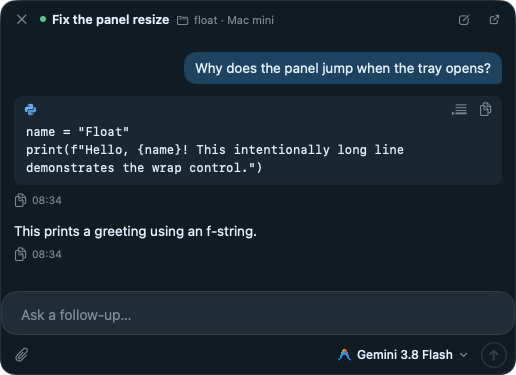
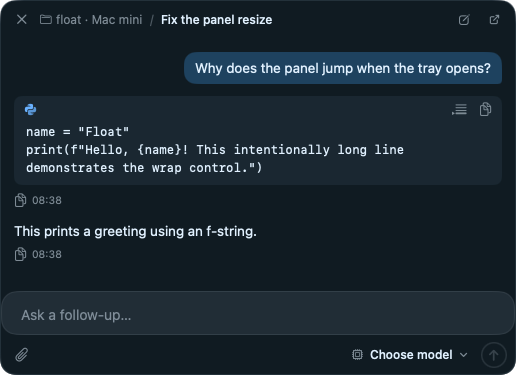
feat(header): show project crumbs and disconnect status

Changed region(s): [[0.062, 0.0293, 0.5271, 0.088], [0.6512, 0.9093, 0.8992, 0.968], [0.093, 0.528, 0.124, 0.5573]]

diff --git a/Sources/Float/HeaderProjectIcon.swift b/Sources/Float/HeaderProjectIcon.swift
@@ -1,0 +1,101 @@
+import AppKit
+import FloatCore
+import SwiftUI
+
+/// T3 uses an explicit override first, then looks for a favicon in the checkout.
+struct HeaderProjectIcon: View {
+    let project: T3Project?
+    let isLocal: Bool
+
+    @State private var image: NSImage?
+
+    var body: some View {
+        Group {
+            if let icon = project?.projectIcon, icon.kind == "emoji", let emoji = icon.emoji {
+                Text(emoji).font(.system(size: 10.5))
+            } else if let icon = project?.projectIcon, icon.kind == "monogram", let text = icon.text {
+                Text(text)
+                    .font(.system(size: 10.5, weight: .medium))
+                    .lineLimit(1)
+                    .minimumScaleFactor(0.6)
+            } else if let image {
+                Image(nsImage: image)
+                    .resizable()
+                    .scaledToFit()
+            } else {
+                Image(systemName: "folder").font(.system(size: 10.5))
+            }
+        }
+        .frame(width: 11, height: 11)
+        .accessibilityHidden(true)
+        .task(id: project) {
+            image = nil
+            guard isLocal, let project, project.projectIcon == nil else { return }
+            let data = await Task.detached { Self.faviconData(for: project) }.value
+            guard !Task.isCancelled else { return }
+            image = data.flatMap(NSImage.init(data:))
+        }
+    }
+
+    private nonisolated static func faviconData(for project: T3Project) -> Data? {
+        let root = URL(fileURLWithPath: project.workspaceRoot, isDirectory: true).resolvingSymlinksInPath()
+        func read(_ path: String, allowAbsolute: Bool = false) -> Data? {
+            let file: URL
+            if path.hasPrefix("/"), allowAbsolute {
+                file = URL(fileURLWithPath: path)
+            } else {
+                file = root.appending(path: path).resolvingSymlinksInPath().standardizedFileURL
+                guard file.path.hasPrefix(root.path + "/") else { return nil }
+            }
+            guard let values = try? file.resourceValues(forKeys: [.isRegularFileKey, .fileSizeKey]),
+                  values.isRegularFile == true, let size = values.fileSize,
+                  (1...2_000_000).contains(size) else { return nil }
+            return try? Data(contentsOf: file)
+        }
+
+        if let path = project.faviconPath, let data = read(path, allowAbsolute: true) { return data }
+        struct ProjectFile: Decodable { let iconPath: String? }
+        if let file = read("t3.json"),
+           let path = (try? JSONDecoder().decode(ProjectFile.self, from: file))?.iconPath,
+           let data = read(path) { return data }
+
+        // Keep this order aligned with T3's ProjectFaviconResolver.
+        let candidates = [
+            "favicon.svg", "favicon.ico", "favicon.png",
+            "public/favicon.svg", "public/favicon.ico", "public/favicon.png",
+            "app/favicon.ico", "app/favicon.png", "app/icon.svg", "app/icon.png", "app/icon.ico",
+            "src/favicon.ico", "src/favicon.svg", "src/app/favicon.ico", "src/app/icon.svg", "src/app/icon.png",
+            "assets/icon.svg", "assets/icon.png", "assets/logo.svg", "assets/logo.png",
+            ".idea/icon.svg", "Resources/AppIcon.icns", "AppIcon.icns",
+        ]
+        if let data = candidates.lazy.compactMap({ read($0) }).first { return data }
+
+        let sourcePaths = [
+            "index.html", "public/index.html", "app/routes/__root.tsx", "src/routes/__root.tsx",
+            "app/root.tsx", "src/root.tsx", "src/index.html",
+        ]
+        let link = #"<link\b(?=[^>]*\brel=["'](?:icon|shortcut icon)["'])(?=[^>]*\bhref=["']([^"'?]+))[^>]*>"#
+        let rel = #"\brel\s*:\s*["'](?:icon|shortcut icon)["']"#
+        let href = #"\bhref\s*:\s*["']([^"'?]+)"#
+        let linkPattern = try? NSRegularExpression(pattern: link, options: .caseInsensitive)
+        let hrefPattern = try? NSRegularExpression(pattern: href, options: .caseInsensitive)
+        for path in sourcePaths {
+            guard let data = read(path), let source = String(data: data, encoding: .utf8) else { continue }
+            let icon = capturedPath(in: source, with: linkPattern) ?? source.split(separator: "}").lazy
+                .filter { $0.range(of: rel, options: [.regularExpression, .caseInsensitive]) != nil }
+                .compactMap { capturedPath(in: String($0), with: hrefPattern) }.first
+            guard let icon else { continue }
+            let localPath = icon.trimmingCharacters(in: .whitespacesAndNewlines)
+            guard !localPath.contains(":"), !localPath.hasPrefix("//") else { continue }
+            let relative = localPath.hasPrefix("/") ? String(localPath.dropFirst()) : localPath
+            if let data = read("public/\(relative)") ?? read(relative) { return data }
+        }
+        return nil
+    }
+
+    private nonisolated static func capturedPath(in source: String, with pattern: NSRegularExpression?) -> String? {
+        guard let match = pattern?.firstMatch(in: source, range: NSRange(source.startIndex..., in: source)),
+              let captured = Range(match.range(at: 1), in: source) else { return nil }
+        return String(source[captured])
+    }
+}

diff --git a/Sources/Float/FloatView.swift b/Sources/Float/FloatView.swift
@@ -251,28 +251,33 @@ struct FloatView: View {
                 "Close (Esc)", accessibilityLabel: "Close",
                 systemImage: "xmark", size: Self.headerButtonSize, glyphSize: 12, action: dismiss
             )
-            Circle()
-                .fill(statusColor)
-                .frame(width: 6, height: 6)
-                .help(statusLabel)
-                .accessibilityLabel(statusLabel)
-            HStack(spacing: 0) {
-                HStack(alignment: .firstTextBaseline, spacing: 6) {
-                    Text(chat.title ?? "Float")
-                        .font(.system(size: 12.5, weight: .semibold))
-                        .foregroundStyle(Theme.text)
+            HStack(spacing: 7) {
+                if let offlineLabel {
+                    Circle()
+                        .fill(Theme.muted)
+                        .frame(width: 6, height: 6)
+                        .accessibilityHidden(true)
+                    headerTitle("Float")
+                    Text(offlineLabel)
+                        .font(.system(size: 11))
+                        .foregroundStyle(Theme.muted)
                         .lineLimit(1)
-                        .accessibilityAddTraits(.isHeader)
-                    HStack(spacing: 4) {
-                        if chat.hasThreadProject {
-                            Image(systemName: "folder")
-                                .font(.system(size: 10, weight: .medium))
+                } else {
+                    if let project = chat.threadProjectLabel {
+                        HStack(spacing: 5) {
+                            HeaderProjectIcon(project: chat.threadProject, isLocal: chat.reference?.environmentID == nil)
+                            Text(chat.threadMachineName.map { "\(project) · \($0)" } ?? project)
+                                .lineLimit(1)
                         }
-                        Text(chat.threadSubtitle)
-                            .font(.system(size: 11))
+                        .font(.system(size: 12))
+                        .foregroundStyle(Theme.muted)
+                        .frame(maxWidth: 210, alignment: .leading)
+                        .fixedSize(horizontal: true, vertical: false)
+                        Text("/")
+                            .font(.system(size: 12))
+                            .foregroundStyle(Theme.muted.opacity(0.55))
                     }
-                    .foregroundStyle(Theme.muted)
-                    .fixedSize()
+                    headerTitle(chat.title ?? "Float")
                 }
                 Spacer(minLength: 8)
             }
@@ -295,26 +300,23 @@ struct FloatView: View {
         }
         .padding(.horizontal, Self.headerButtonInset)
         .frame(height: Self.headerHeight)
+        .task(id: chat.threadProjectID) { await chat.loadThreadProject() }
     }
 
-    private var statusColor: Color {
-        if chat.needsT3 { return Theme.muted }
-        switch chat.status {
-        case .running: return Theme.accent
-        case .waiting: return Theme.warning
-        case .failed: return Theme.error
-        default: return chat.submitting ? Theme.accent : Theme.success
-        }
+    private func headerTitle(_ title: String) -> some View {
+        Text(title)
+            .font(.system(size: 12, weight: .medium))
+            .foregroundStyle(Theme.text)
+            .lineLimit(1)
+            .accessibilityAddTraits(.isHeader)
     }
 
-    private var statusLabel: String {
+    private var offlineLabel: String? {
         if chat.needsT3 { return "T3 not running" }
-        switch chat.status {
-        case .running: return "Thinking"
-        case .waiting: return "Needs input"
-        case .failed: return "Failed"
-        default: return chat.submitting ? "Thinking" : "Ready"
+        if chat.threadMachineDisconnected {
+            return "\(chat.threadMachineName ?? "Thread machine") is offline"
         }
+        return nil
     }
 
     private var openAction: NoticeAction? {

diff --git a/Sources/Float/ChatState.swift b/Sources/Float/ChatState.swift
@@ -73,6 +73,8 @@ final class ChatState: ObservableObject {
     @Published private(set) var projectCatalogFailed = false
     @Published private(set) var selectedProjectID: String?
     @Published private(set) var threadProjectID: String?
+    @Published private var loadedThreadProject: T3Project?
+    @Published private(set) var threadMachineDisconnected = false
     @Published private(set) var machines: [T3Machine] = []
     @Published private(set) var loadingMachines = false
     @Published private(set) var selectedMachineID: String?
@@ -198,20 +200,29 @@ final class ChatState: ObservableObject {
     var projectLabel: String { selectedProject?.title ?? "No project" }
 
     var threadProject: T3Project? {
-        projects.first { $0.id == threadProjectID }
+        if let loadedThreadProject, loadedThreadProject.id == threadProjectID {
+            return loadedThreadProject
+        }
+        guard reference?.environmentID == selectedMachineEnvironmentID else { return nil }
+        return projects.first { $0.id == threadProjectID }
     }
 
-    var hasThreadProject: Bool { threadProject != nil || reference?.projectName != nil }
-
-    var threadProjectLabel: String {
-        threadProject?.title ?? reference?.projectName ?? "No project"
+    var threadProjectLabel: String? {
+        let name = threadProject?.title ?? reference?.projectName
+        return name == "No project" ? nil : name
     }
 
-    var threadMachineName: String? { reference?.machineName }
+    var threadMachineName: String? {
+        guard let environmentID = reference?.environmentID else { return nil }
+        return machines.first { $0.id == environmentID }?.name ?? reference?.machineName
+    }
 
-    var threadSubtitle: String {
-        guard let threadMachineName else { return threadProjectLabel }
-        return "\(threadProjectLabel) · \(threadMachineName)"
+    func loadThreadProject() async {
+        guard let id = threadProjectID, let reference, loadedThreadProject?.id != id,
+              threadProject?.faviconPath == nil, threadProject?.projectIcon == nil,
+              let project = try? await client.project(id, environmentID: reference.environmentID),
+              reference == self.reference, id == threadProjectID, !Task.isCancelled else { return }
+        loadedThreadProject = project
     }
 
     var canChooseProject: Bool {
@@ -410,6 +421,8 @@ final class ChatState: ObservableObject {
         images = []
         reference = nil
         threadProjectID = nil
+        loadedThreadProject = nil
+        threadMachineDisconnected = false
         threadModel = nil
         nextModel = nil
         messages = []
@@ -818,6 +831,7 @@ final class ChatState: ObservableObject {
                     threadModel = page.thread.modelSelection ?? threadModel
                     loading = false
                     connectionFailures = 0
+                    threadMachineDisconnected = false
                     if needsT3 || noticeKind == .connection {
                         clearNotice()
                         needsT3 = false
@@ -943,9 +957,11 @@ final class ChatState: ObservableObject {
     private func showError(_ error: Error) {
         let detail = error.localizedDescription
         if Self.isRemoteMachineUnavailable(error),
-            let machine = reference?.machineName
-                ?? selectedMachine.flatMap({ $0.isLocal ? nil : $0.name }) {
+            let machine = threadMachineName
+                ?? selectedMachine.flatMap({ $0.isLocal ? nil : $0.name })
+                ?? (reference?.environmentID == nil ? nil : "Thread machine") {
             needsT3 = false
+            threadMachineDisconnected = reference?.environmentID != nil
             setNotice(
                 "Reconnect it in T3 Code to continue.",
                 title: "\(machine) is offline", kind: .connection, detail: detail

diff --git a/Sources/FloatCore/ProjectPickerSupport.swift b/Sources/FloatCore/ProjectPickerSupport.swift
@@ -1,19 +1,30 @@
 import Foundation
 
+public struct T3ProjectIcon: Codable, Equatable, Sendable {
+    public let kind: String
+    public let text: String?
+    public let emoji: String?
+}
+
 public struct T3Project: Codable, Equatable, Identifiable, Sendable {
     public let id: String
     public let title: String
     public let workspaceRoot: String
+    public let faviconPath: String?
+    public let projectIcon: T3ProjectIcon?
     public let archivedAt: String?
     public let deletedAt: String?
 
     public init(
         id: String, title: String, workspaceRoot: String,
-        archivedAt: String? = nil, deletedAt: String? = nil
+        archivedAt: String? = nil, deletedAt: String? = nil,
+        faviconPath: String? = nil, projectIcon: T3ProjectIcon? = nil
     ) {
         self.id = id
         self.title = title
         self.workspaceRoot = workspaceRoot
+        self.faviconPath = faviconPath
+        self.projectIcon = projectIcon
         self.archivedAt = archivedAt
         self.deletedAt = deletedAt
     }

diff --git a/Sources/FloatCore/T3Client.swift b/Sources/FloatCore/T3Client.swift
@@ -127,6 +127,12 @@ public struct T3Client: Sendable {
         }
     }
 
+    public func project(_ id: String, environmentID: String?) async throws -> T3Project {
+        var arguments: [String: any Sendable] = ["projectId": id]
+        arguments["environmentId"] = environmentID
+        return try await transport.call("t3_project_read", arguments, result: T3Project.self, retryExpiredSession: true)
+    }
+
     public func send(
         _ text: String, images: [ImageAttachment], thread: ThreadReference?, requestId: UUID,
         modelSelection: T3ModelSelection? = nil, projectID: String? = nil,
